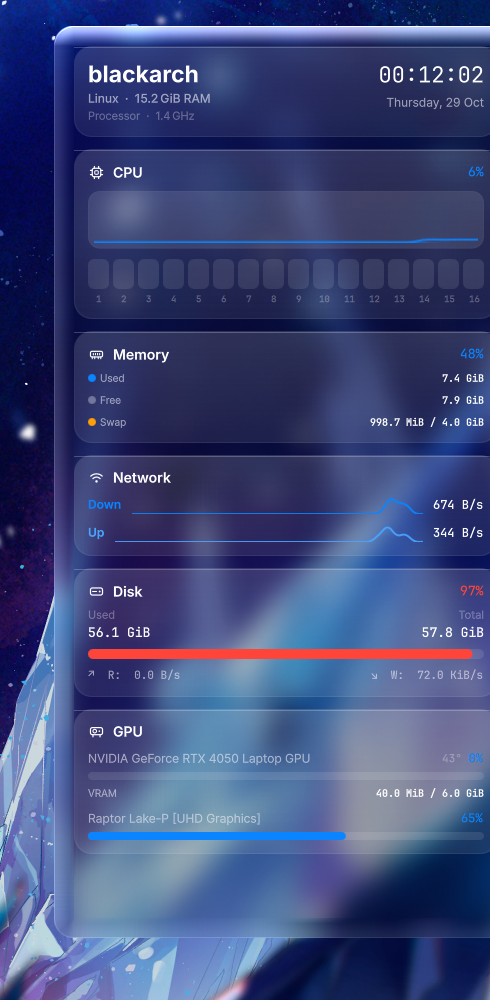
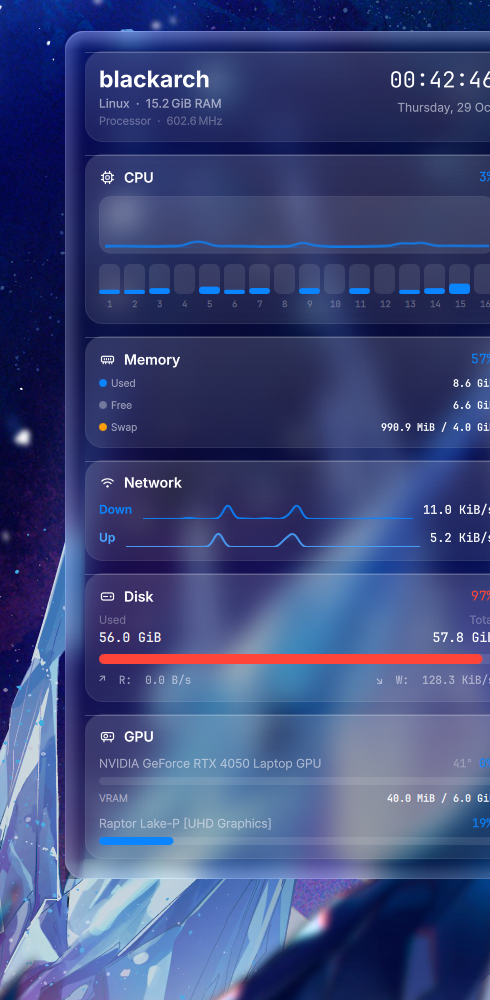
feat(ui): soft macOS edge treatment and floating drop shadow
The directional specular + weighted stroke drew a hard bright streak
along the top edge; both are now nearly uniform with only a slight top
bias, matching the soft even edge of macOS widgets. The widget also
floats on a MultiEffect drop shadow: a blurred copy of the glass
silhouette rendered behind it, offset downward.

diff --git a/package/contents/ui/SystemMonitorView.qml b/package/contents/ui/SystemMonitorView.qml
@@ -1,5 +1,6 @@
 import QtQuick
 import QtQuick.Layouts
+import QtQuick.Effects
 import org.kde.plasma.plasmoid
 import org.kde.kirigami as Kirigami
 import "components"
@@ -72,7 +73,21 @@ Item {
     Layout.maximumHeight: 1300
     clip: true
 
+    // macOS-style floating drop shadow: MultiEffect renders a blurred
+    // copy of the glass silhouette behind it; the copy sits exactly under
+    // the real glass, so only the soft shadow ring is ever visible.
+    MultiEffect {
+        anchors.fill: glassBg
+        source: glassBg
+        shadowEnabled: true
+        shadowBlur: 0.9
+        shadowColor: Qt.rgba(0, 0, 0, 0.45)
+        shadowVerticalOffset: 12
+        autoPaddingEnabled: true
+    }
+
     GlassBackground {
+        id: glassBg
         anchors.fill: parent
         radius: cfg.cornerRadius
 

diff --git a/package/contents/ui/components/GlassBackground.qml b/package/contents/ui/components/GlassBackground.qml
@@ -35,8 +35,8 @@ Item {
     property real refractionStrength: 26    // max rim displacement, px
     property real chromaStrength: 0.08      // chromatic aberration, 0..1
     property bool specular: true
-    property real specStrength: 0.9
-    property real edgeStroke: 1.0           // Apple-style inner outline, 0..1
+    property real specStrength: 0.6         // soft even ambient rim
+    property real edgeStroke: 0.8           // soft uniform inner outline, 0..1
     property bool realtimeRefraction: false
 
     // ── Solid panel mode (no wallpaper sampling) ──────────────────────

diff --git a/CHANGELOG.md b/CHANGELOG.md
@@ -46,6 +46,13 @@ and the project adheres to [Semantic Versioning](https://semver.org/).
   `valueSlot`/`meterWidth` extensions for wider value strings and meters
   (upstream adaptations, documented in the file headers).
 
+### Changed
+
+- The widget now floats with a macOS-style soft drop shadow (MultiEffect
+  renders a blurred copy of the glass silhouette behind it).
+- The edge treatment is soft and even — the previous hard directional
+  specular drew a bright streak along the top edge.
+
 ### Fixed
 
 - Per-core tiles were permanently empty: the Instantiator materializes
